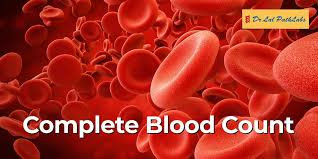
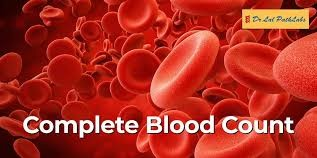
rick

diff --git a/labTest.php b/labTest.php
@@ -15,17 +15,17 @@ include "connect.php";
     if (mysqli_num_rows($result) > 0) {
       while ($row = mysqli_fetch_assoc($result)) {
         echo '
-        <div class="col-md-4">
-            <div class="card mb-4 shadow-lg lab-card">
-                <img src="images/service/' . $row['image'] . '" class="card-img-top img-fluid" alt="' . $row['test_name'] . '">
+        <div class="col-md-4" >
+            <div class="card mb-4 shadow-lg lab-card" >
+                <img src="images/service/' . $row['image'] . '" class="card-img-top img-fluid" alt="' . $row['test_name'] . ' style =object-fit: cover;">
                 <div class="card-body text-center">
                     <h5 class="card-title fw-bold">' . $row['test_name'] . '</h5>
                     <p class="card-text text-muted">' . $row['description'] . '</p>
-                    <p class="card-text"><strong>💰 Price:</strong> ₹' . $row['price'] . '</p>
+                    <p class="card-text"><strong> Price:</strong> ₹' . $row['price'] . '</p>
                     <button class="btn book-btn" data-bs-toggle="modal" data-bs-target="#bookTestModal" 
                         data-id="' . $row['lt_id'] . '" 
                         data-name="' . $row['test_name'] . '">
-                        🚀 Book Now
+                        Book Now
                     </button>
                 </div>
             </div>
@@ -56,7 +56,7 @@ include "connect.php";
               <input type="text" class="form-control" id="test_name" name="test_name" readonly>
             </div>
             <div class="col-md-6 mb-3">
-              <label for="patient_name" class="form-label">Your Name</label>
+              <label for="patient_name" class="form-label">Patient Name</label>
               <input type="text" class="form-control" name="patient_name" required>
             </div>
           </div>
@@ -67,10 +67,48 @@ include "connect.php";
               <input type="date" class="form-control" name="test_date" required>
             </div>
             <div class="col-md-6 mb-3">
-              <label for="state" class="form-label">State</label>
-              <input type="text" class="form-control" name="state" required>
-            </div>
-          </div>
+    <label for="state" class="form-label">State</label>
+    <input list="states" class="form-control" name="state" placeholder="Type to search..." required>
+    <datalist id="states">
+        <option value="Andhra Pradesh">
+        <option value="Arunachal Pradesh">
+        <option value="Assam">
+        <option value="Bihar">
+        <option value="Chhattisgarh">
+        <option value="Goa">
+        <option value="Gujarat">
+        <option value="Haryana">
+        <option value="Himachal Pradesh">
+        <option value="Jharkhand">
+        <option value="Karnataka">
+        <option value="Kerala">
+        <option value="Madhya Pradesh">
+        <option value="Maharashtra">
+        <option value="Manipur">
+        <option value="Meghalaya">
+        <option value="Mizoram">
+        <option value="Nagaland">
+        <option value="Odisha">
+        <option value="Punjab">
+        <option value="Rajasthan">
+        <option value="Sikkim">
+        <option value="Tamil Nadu">
+        <option value="Telangana">
+        <option value="Tripura">
+        <option value="Uttar Pradesh">
+        <option value="Uttarakhand">
+        <option value="West Bengal">
+        <option value="Andaman and Nicobar Islands">
+        <option value="Chandigarh">
+        <option value="Dadra and Nagar Haveli and Daman and Diu">
+        <option value="Lakshadweep">
+        <option value="Delhi">
+        <option value="Puducherry">
+        <option value="Ladakh">
+        <option value="Jammu and Kashmir">
+    </datalist>
+</div>
+
 
           <div class="row">
             <div class="col-md-6 mb-3">
@@ -123,32 +161,53 @@ include "connect.php";
 <style>
   /* Smooth hover effect on lab test cards */
   .lab-card {
-    transition: transform 0.3s ease, box-shadow 0.3s ease;
-    border-radius: 12px;
-    overflow: hidden;
-  }
-  
-  .lab-card:hover {
-    transform: scale(1.05);
-    box-shadow: 0px 10px 20px rgba(0, 0, 0, 0.2);
-  }
+        border: 1px solid #e0e0e0;
+        border-radius: 10px;
+        overflow: hidden;
+        transition: transform 0.3s, box-shadow 0.3s;
+    }
 
-  /* Custom Book Now button */
-  .book-btn {
-    background: linear-gradient(45deg, #007bff, #6610f2);
-    border: none;
-    color: #fff;
-    padding: 10px 20px;
-    font-size: 16px;
-    font-weight: bold;
-    border-radius: 8px;
-    transition: all 0.3s ease;
-  }
+    .lab-card:hover {
+        transform: translateY(-5px);
+        box-shadow: 0 4px 15px rgba(0, 0, 0, 0.1);
+    }
 
-  .book-btn:hover {
-    background: linear-gradient(45deg, #6610f2, #007bff);
-    transform: scale(1.1);
-  }
+    /* Image Container */
+    .card-img-top {
+        width: 100%;
+        height: 200px; /* Fixed height for all images */
+        object-fit: cover; /* Ensures the image covers the area without stretching */
+        object-position: center; /* Centers the image within the container */
+    }
+
+    /* Card Body */
+    .card-body {
+        padding: 20px;
+    }
+
+    .card-title {
+        font-size: 1.25rem;
+        margin-bottom: 10px;
+    }
+
+    .card-text {
+        font-size: 0.9rem;
+        color: #666;
+    }
+
+    /* Book Now Button */
+    .book-btn {
+        background-color: #26988c;
+        color: white;
+        border: none;
+        padding: 10px 20px;
+        border-radius: 5px;
+        transition: background-color 0.3s;
+    }
+
+    .book-btn:hover {
+        background-color: #1f7a6e;
+    }
 
   /* Smooth modal appearance */
   .modal-animate .modal-content {

diff --git a/navbar.php b/navbar.php
@@ -114,25 +114,23 @@ if (isset($_SESSION['uid']) && $_SESSION['uid'] != null) {
             </div>
 
 
-            <div class="nav-item dropdown" >
-    <a class="nav-link text-dark d-flex align-items-center dropdown-toggle" href="#" id="profileMenu" data-bs-toggle="dropdown" >
+            <div class="nav-item dropdown" style="padding-left: 20px;">
+    <a class="nav-link text-dark d-flex align-items-center dropdown-toggle" href="#" id="profileMenu" data-bs-toggle="dropdown">
         <?php if (isset($_SESSION['USER_LOGIN']) && $_SESSION['USER_LOGIN'] === 'yes') { ?>
             <img src="<?php echo $profile_pic; ?>" alt="User" class="rounded-circle" style="width: 40px; height: 40px; object-fit: cover;">
         <?php } else { ?>
             <i class="icofont-user-alt-5 fs-4 me-2"></i>
         <?php } ?>
     </a>
-    <ul class="dropdown-menu border-0 shadow p-3">
+    <ul class="dropdown-menu border-0 shadow p-3 dropdown-menu-start" aria-labelledby="profileMenu">
         <?php if (isset($_SESSION['USER_LOGIN']) && $_SESSION['USER_LOGIN'] === 'yes') { ?>
-            <li><a class="dropdown-item" href="profile.php">My Account</a></li>
-            <li><a class="dropdown-item" href="add-account.php">Add Another Account</a></li>
-            <li><hr class="dropdown-divider"></li>
+            <li><a class="dropdown-item" href="profile.php">My Account </a></li>
             <li><a class="dropdown-item text-danger" href="logout.php">Logout</a></li>
         <?php } else { ?>
             <li><a class="dropdown-item" href="login.php">Login</a></li>
         <?php } ?>
     </ul>
-        </div>
+</div>
         </div>
     </nav>
 </header>
@@ -156,18 +154,60 @@ if (isset($_SESSION['uid']) && $_SESSION['uid'] != null) {
     }
 
     /* Profile Dropdown Styling */
+    /* Dropdown Menu Styling */
     .dropdown-menu {
-        min-width: 200px;
-        border-radius: 10px;
+        min-width: 200px; /* Set a minimum width for the dropdown */
+        border-radius: 10px; /* Rounded corners */
+        background-color: #fff; /* White background */
+        box-shadow: 0 4px 12px rgba(0, 0, 0, 0.15); /* Soft shadow */
+        border: none; /* Remove default border */
+        padding: 10px 0; /* Add padding */
     }
 
-    .dropdown-menu a {
-        padding: 10px;
-        font-size: 14px;
+    .dropdown-item {
+        padding: 8px 16px; /* Add padding to dropdown items */
+        font-size: 14px; /* Set font size */
+        color: #333; /* Default text color */
+        border-radius: 8px; /* Rounded corners for items */
+        transition: all 0.3s ease; /* Smooth transition */
+        display: flex; /* Align items */
+        align-items: center; /* Center items vertically */
     }
 
-    .dropdown-menu a:hover {
-        background-color: #f8f9fa;
+    .dropdown-item:hover {
+        background-color: #f8f9fa; /* Light background on hover */
+        color: #26988c; /* Change text color on hover */
+        transform: translateX(5px); /* Slight move to the right */
+    }
+
+    .dropdown-item.text-danger {
+        color: #dc3545; /* Red color for logout */
+    }
+
+    .dropdown-item.text-danger:hover {
+        background-color: #f8d7da; /* Light red background on hover */
+        color: #dc3545; /* Keep red text on hover */
+    }
+
+    .dropdown-divider {
+        margin: 8px 0; /* Add margin to the divider */
+        border-top: 1px solid #e9ecef; /* Light border color */
+    }
+
+    /* Profile Picture Styling */
+    .rounded-circle {
+        border: 2px solid #26988c; /* Add a border to the profile picture */
+        transition: transform 0.3s ease; /* Smooth transition */
+    }
+
+    .rounded-circle:hover {
+        transform: scale(1.1); /* Slightly enlarge on hover */
+    }
+
+    /* Dropdown Toggle Arrow Styling */
+    .dropdown-toggle::after {
+        vertical-align: middle; /* Align the arrow vertically */
+        margin-left: 8px; /* Add space between icon and arrow */
     }
 </style>
 

diff --git a/doctor.php b/doctor.php
@@ -51,9 +51,7 @@ $doctorResult = mysqli_query($con, $doctorQuery);
         <div class="position-relative doctor-inner-box">
             <div class="doctor-profile">
                 <div class="doctor-img">
-                    <img src="product/' . htmlspecialchars($doctor["image"]) . '" alt="Medicine Image" style="    height: 300px;
-    width: 201px;
-    object-fit: cover;">
+                    <img src="doctors/' . htmlspecialchars($doctor["image"]) . '" alt="Medicine Image" style="height: 300px;width: 201px;object-fit: cover;">
                 </div>
             </div>
             <div class="content mt-3">

diff --git a/roombooking.php b/roombooking.php
@@ -113,7 +113,8 @@ $result = mysqli_query($con, $sql);
             <div class="room-card">
                 <!-- Room Image -->
                 <div class="room-image">
-                    <img src="<?php echo $room['room_image']; ?>" alt="<?php echo $room['room_name']; ?>">
+                    <img src="images/service/<?php echo $room['room_image']; ?>" alt="<?php echo $room['room_name']; ?>" style="height: 350px;width: 200px;object-fit: cover;">
+                      
                 </div>
 
                 <!-- Room Details -->

diff --git a/profile.php b/profile.php
@@ -115,7 +115,8 @@ if ($_SERVER['REQUEST_METHOD'] == 'POST') {
             </form>
         </main>
     </div>
-
+    <?php
+include 'footer.php';?>
 <style>
 
 .container {
